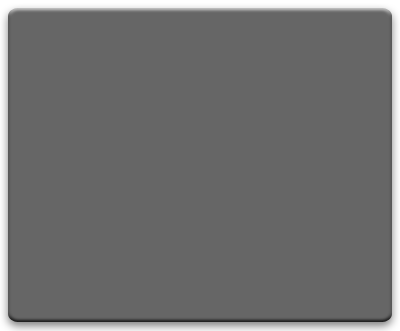
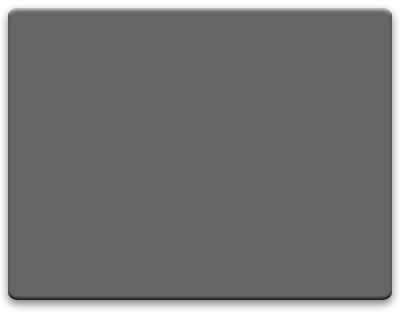
Resized the widget to be a bit smaller.

Changed region(s): [[0.0, 0.9062, 0.99, 1.0]]

diff --git a/library/main.js b/library/main.js
@@ -184,7 +184,7 @@ function loadDischargeImage() {
 	setLoadTimer();
 	
 	document.getElementById('stationPageLink').style.visibility = "hidden";
-	document.getElementById('levelsgraph').src = "images/loading.png";
+	document.getElementById('levelsgraph').src = "images/loading_front.png";
 	document.getElementById('levelsgraphThumb').src = "images/loading.png";
 	loadImage("00060");
 }
@@ -395,16 +395,6 @@ Date.prototype.subtractDays = function (num) {
 	// current milliseconds - num days * hr * mn * sc * milsc
 	this.setTime(this.getTime() - (num * 24 * 60 * 60 * 1000));
 }
-
-
-// 
-// function mousemove(event) {
-// 	document.getElementById('flip').style.visibility = "visible";
-// }
-// 
-// function mouseexit(event) {
-// 	document.getElementById('flip').style.visibility = "hidden";
-// }
 
 function enterflip(event) {
 	document.getElementById('fliprollie').style.visibility = "visible";

diff --git a/library/style.css b/library/style.css
@@ -4,12 +4,12 @@ body {
 	font-family: Lucida Grande, Arial, Helvetica, sans-serif;
 	font-size: 10px;
 	width: 400px;
-	height: 331px;
+	height: 320px;
 }
 
 #front,#back {
 	width: 380px;
-	height: 311px;
+	height: 290px;
 	position: relative;
 	/*border: 1px solid;*/
 }
@@ -25,7 +25,7 @@ body {
 	top: 5;
 	left: 5;
 	width: 375px;
-	height: 301px;
+	height: 280px;
 	z-index: 10;
 	overflow: hidden;
 	/*border: 1px solid;*/
@@ -49,13 +49,13 @@ body {
 
 #done {
     position:absolute;
-    right: 20px;
-    bottom: 20px;
+    right: 22px;
+    bottom: 25px;
 }
 
 .flip {
 	position:absolute;
-	bottom: 3px;
+	bottom: 5px;
 	right: 3px;
 	width: 13px;
 	height: 13px;

diff --git a/RiverLevels.html b/RiverLevels.html
@@ -16,7 +16,7 @@
 		<div id="front" onmousemove='mousemove(event);' onmouseout='mouseexit(event);'>
 			<div id='stationPageLink' onclick="openPage()"></div>
 			<div id='graphContainer'>
-				<img id='levelsgraph' src='images/usgs.png' width='388px' height='321px'/>
+				<img id='levelsgraph' src='images/usgs_front.png' width='388px' height='321px'/>
 			</div>
 			<div class='flip' id='flip' onclick='showBack(event);' onmouseover='enterflip(event);' onmouseout='exitflip(event);'></div>
 			<div class='flip' id='fliprollie'></div>
